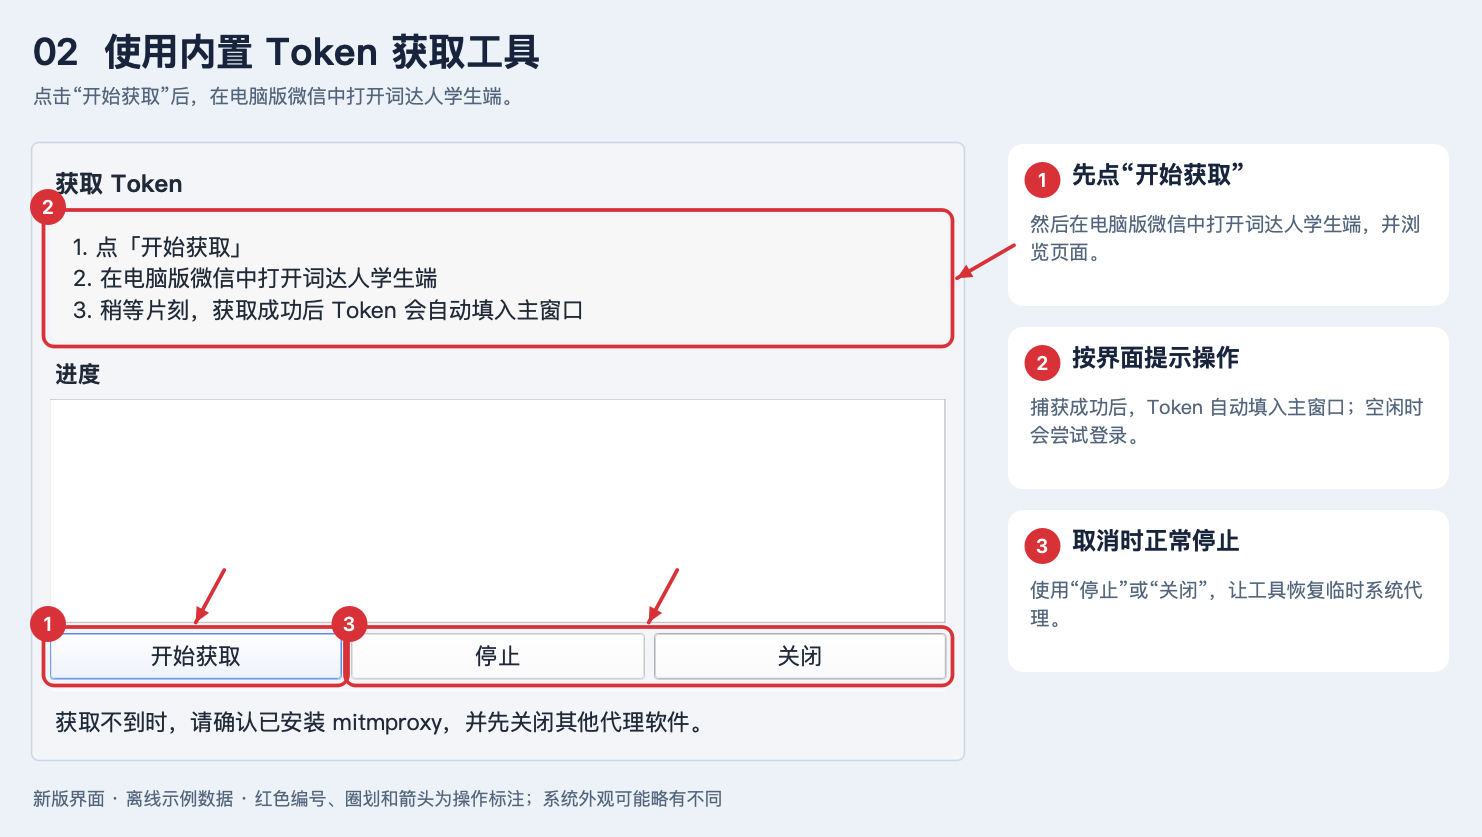
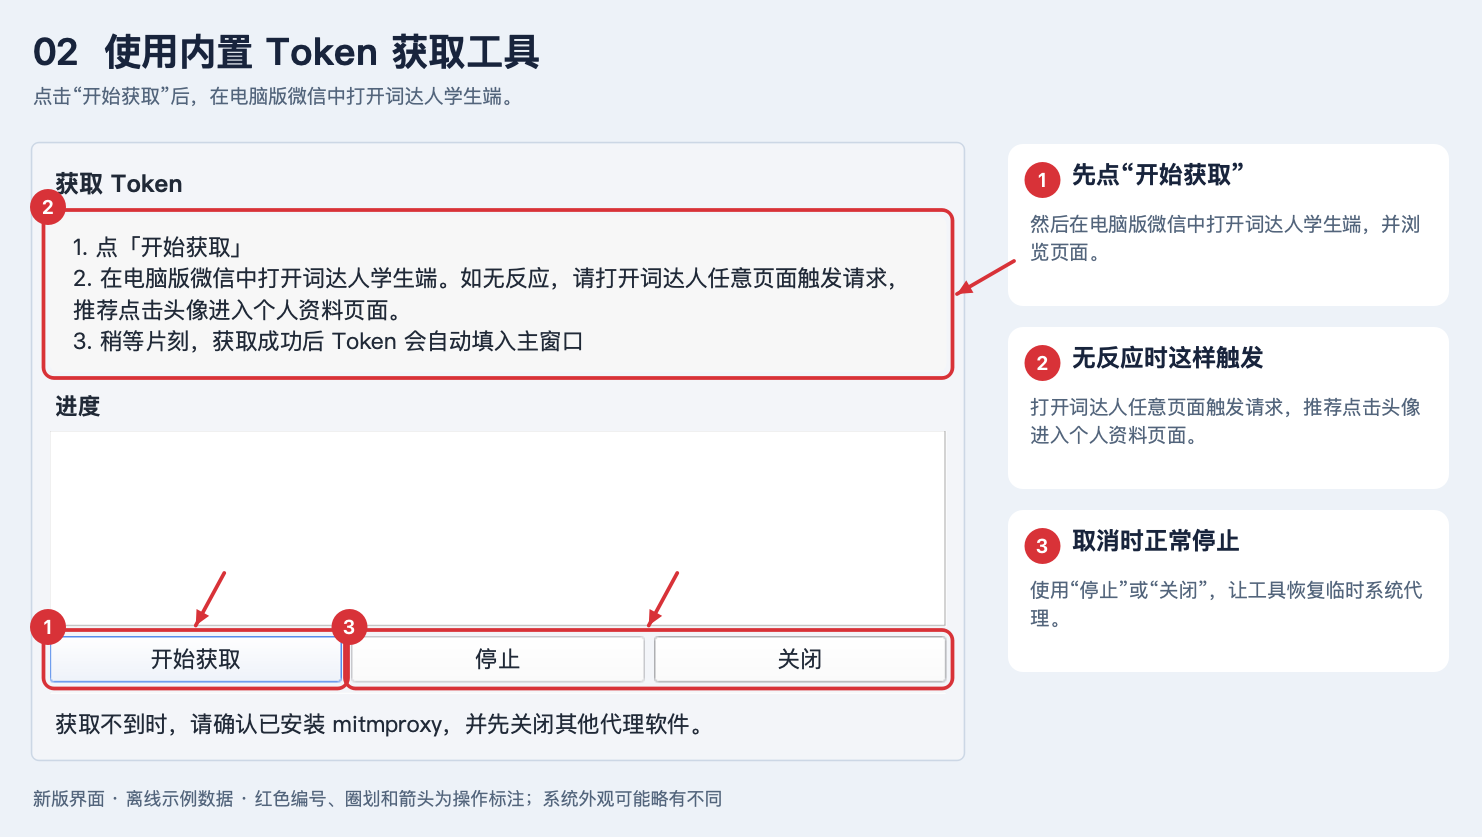
docs(token): 补充无反应时进入个人资料触发获取的提示
更新获取 Token 窗口第二条说明，同步图文教程与截图。离线检查默认尺寸下文字换行及按钮可见性，未启动捕获或修改系统代理。

diff --git a/scripts/render_usage_tutorial.py b/scripts/render_usage_tutorial.py
@@ -246,7 +246,7 @@ def make_pages():
     instructions = next(w for w in dialog.findChildren(QLabel) if '电脑版微信' in w.text() and w.wordWrap())
     render('02-token.png', dialog, '02  使用内置 Token 获取工具', '点击“开始获取”后，在电脑版微信中打开词达人学生端。', [
         mark(rect_of(dialog, dialog.start_button), '先点“开始获取”', '然后在电脑版微信中打开词达人学生端，并浏览页面。', side='top'),
-        mark(rect_of(dialog, instructions), '按界面提示操作', '捕获成功后，Token 自动填入主窗口；空闲时会尝试登录。'),
+        mark(rect_of(dialog, instructions), '无反应时这样触发', '打开词达人任意页面触发请求，推荐点击头像进入个人资料页面。'),
         mark(united(rect_of(dialog, dialog.stop_button), rect_of(dialog, dialog.close_button)), '取消时正常停止', '使用“停止”或“关闭”，让工具恢复临时系统代理。', side='top'),
     ])
     close(dialog)

diff --git a/view/builtin_token.py b/view/builtin_token.py
@@ -76,7 +76,7 @@ class BuiltinTokenDialog(QDialog):
         # 说明文本
         info_text = (
             "1. 点「开始获取」\n"
-            "2. 在电脑版微信中打开词达人学生端\n"
+            "2. 在电脑版微信中打开词达人学生端。如无反应，请打开词达人任意页面触发请求，推荐点击头像进入个人资料页面。\n"
             "3. 稍等片刻，获取成功后 Token 会自动填入主窗口"
         )
         info_label = QLabel(info_text)

diff --git a/docs/使用教程.md b/docs/使用教程.md
@@ -41,7 +41,7 @@ bash ./点我运行_mac.command
 ![Token 获取工具：标注开始获取、操作提示和停止关闭按钮](screenshots/tutorial/02-token.png)
 
 1. 点击图中 **①「开始获取」**。
-2. 在**电脑版微信**中打开词达人学生端并浏览页面。可以从微信中打开 [词达人学生端链接](https://app.vocabgo.com/student/)。
+2. 在**电脑版微信**中打开词达人学生端并浏览页面。可以从微信中打开 [词达人学生端链接](https://app.vocabgo.com/student/)。**如无反应，请打开词达人任意页面触发请求，推荐点击头像进入个人资料页面。**
 3. 按工具提示完成必要的系统授权。捕获成功后，Token 会自动填入主窗口，空闲时自动尝试登录。
 4. 需要取消时，使用 **③「停止」或「关闭」**，让工具完成临时代理的恢复。
 
